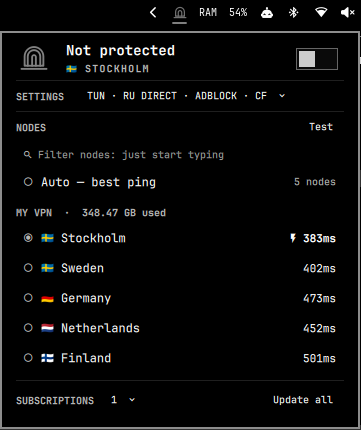
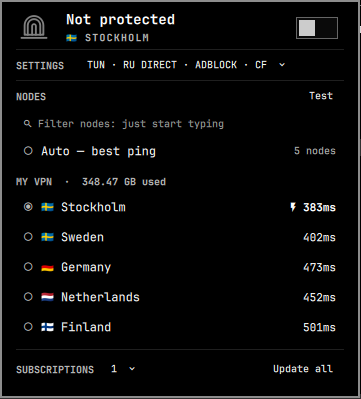
preview.png: panel only, bar strip cropped
Claude-Session: https://claude.ai/code/session_01WYwzw9vNvSvoDPvJMRVxtD

diff --git a/README.md b/README.md
@@ -6,7 +6,7 @@ connect/disconnect, node switching (or **Auto** — best ping), proxy or
 **TUN** mode, routing presets, latency tests, subscription updates and live
 traffic.
 
-<img src="preview.png" alt="The Xray panel open under the bar: protection state, settings summary, nodes with latency" width="361">
+<img src="preview.png" alt="The Xray panel: protection state, settings summary, nodes with latency" width="361">
 
 ```
 Panel.qml ──▶ bin/omarchy-xray (manager, in the plugin folder)
